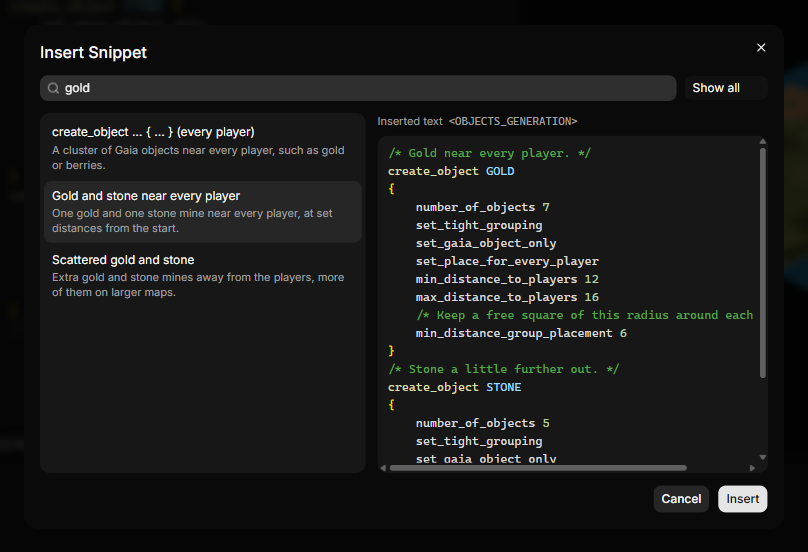
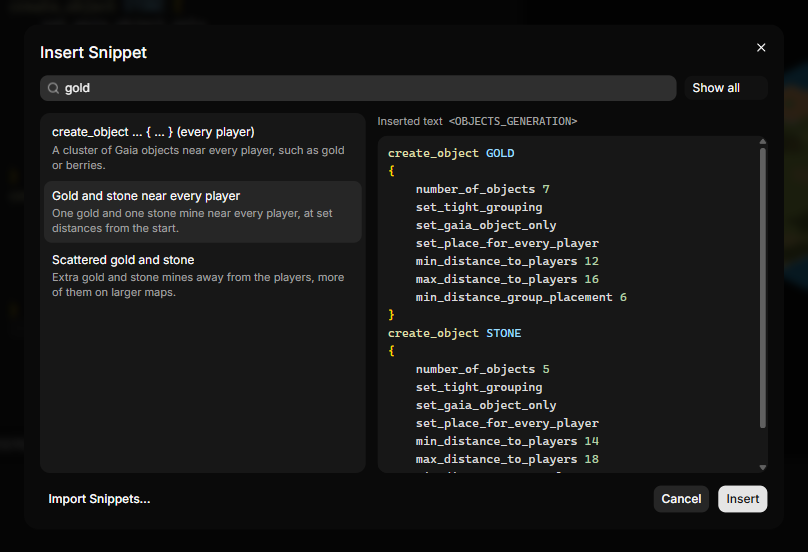
AoE2RMSIDE 1.4.1: own snippets, section-aware snippet insertion
Writing scripts: section headers first in suggestions at a line start,
Insert There / Create Section / Insert Here for snippets, the revised
pattern list, and own snippets (save, edit, delete, export, import).
Getting started: what the Explorer lists and faded folders. Two
screenshots retaken from the released build.

diff --git a/docs/aoe2rmside/writing-scripts.md b/docs/aoe2rmside/writing-scripts.md
@@ -276,12 +276,16 @@ appears.
 - Suggestions open by themselves after a space wherever a name is expected,
   for example after `create_object`, after `<` for a section header and
   after `#` for a directive. **Ctrl+Space** opens them anywhere.
+- At the start of a line outside `{ }`, with nothing typed yet or after `<`,
+  the section headers your script does not have yet come first, in the order
+  the sections belong in the script. Sections the script already has come
+  last.
 - After `if` and `elseif` you get the labels a lobby can define. After
   `#include` you get the files of your open folder, one folder level at a
   time.
 - Snippets insert whole constructs, such as a `create_object` block, or a
-  commented pattern for a common task, such as **Gold and stone near every
-  player**, with placeholders. Press Tab to move from one placeholder to the
+  pattern for a common task, such as **Gold and stone near every player**,
+  with placeholders. Press Tab to move from one placeholder to the
   next. To browse them all, use **Insert Snippet…** (see
   [Inserting a snippet](#inserting-a-snippet)).
 - Press Enter at the end of a block command such as `create_object GOLD`, or
@@ -318,12 +322,27 @@ The snippet goes in at the cursor, or replaces the selected text, and takes
 the indentation of its line. Press Tab to move through its placeholders. One
 Undo removes the whole snippet.
 
+Most snippets belong in one section, for example `<OBJECTS_GENERATION>` for
+gold and stone. When the cursor is somewhere else, AoE2RMSIDE asks first:
+
+- If the script already has that section, **Insert There** adds the snippet
+  at the end of that section.
+- If the script does not have the section yet, **Create Section** adds it in
+  its proper place among the other sections and inserts the snippet there.
+- **Insert Here** keeps the snippet at the cursor, and **Cancel** goes back
+  to the list.
+
+Even then, one Undo removes everything that was added.
+
 ![The Insert Snippet list with a pattern and the text it inserts](images/insert-snippet.png)
 
 Besides the blocks that completion also offers, such as `create_land`,
 `create_object`, `if` … `endif` and `start_random` … `end_random`, the list
-has commented patterns for common map-making tasks:
+has patterns for common map-making tasks:
 
+- New map skeleton (only in a file without sections yet: every section in
+  its order, with player lands and starting units, so the map generates
+  right away)
 - Player lands with a standard base
 - Forest around the map edge
 - A lake in the middle of the map
@@ -337,12 +356,29 @@ has commented patterns for common map-making tasks:
 - Sheep and boar near every player
 - Scattered gold and stone
 - Relics away from the players
-- A random main terrain
+- Fish in the water
 
-Each pattern belongs in one section, for example `<OBJECTS_GENERATION>` for
-gold and stone, so place the cursor in that section first. Its comments
-explain the values, so you can adjust them to your map. Snippet names,
-descriptions and comments are in English in every interface language.
+Point at any word of an inserted pattern to read what it does, then adjust
+the values to your map. Snippet names, descriptions and the few comments are
+in English in every interface language.
+
+#### Your own snippets
+
+Keep code you use often as your own snippet: select it (or select nothing to
+start empty) and choose **Save as Snippet…** in the editor's right-click menu
+or the **Edit** menu. Give it a name, the section it belongs in (or **Any
+section**) and, if you like, a short description. The code can still be
+changed in the dialog, with the same highlighting, suggestions and
+descriptions as in the editor, fitted to the section you chose. Your snippets appear first under **My snippets** in
+Insert Snippet…, go into their section the same way as the built-in ones, and
+are inserted as written, without placeholders. The **Edit** and **Delete** buttons
+on a snippet's row change or remove it; deleting asks first.
+
+To share snippets with other scripters, choose **Export Snippets…** in
+Insert Snippet…: it saves all your snippets to one file you can send or
+post. Someone who receives such a file chooses **Import Snippets…** to add
+them to their own. A snippet whose name is already taken gets a number after
+its name, so nothing is overwritten.
 
 ### Inlay hints
 

diff --git a/docs/aoe2rmside/getting-started.md b/docs/aoe2rmside/getting-started.md
@@ -191,6 +191,15 @@ save yourself can contain them.
 
 There is no project file. The IDE works on plain folders.
 
+The Explorer lists your random map scripts, include and definition files,
+map tests and XS scripts, and every folder. Files of other types, such as
+text notes or images, are not listed. A folder with none of the listed files
+anywhere inside it is shown slightly faded, so you can see at a glance that
+nothing relevant is in it yet. Faded folders work like any other: open them,
+create a new script or folder in them, rename or delete them. As soon as a
+script exists inside, the folder and the folders above it show at full
+strength again.
+
 The **Search files** box in the Explorer filters the folder tree as you type.
 The tree keeps only the matching files and folders and the folders that
 contain them, opens those folders for the search, and shows the matching part
